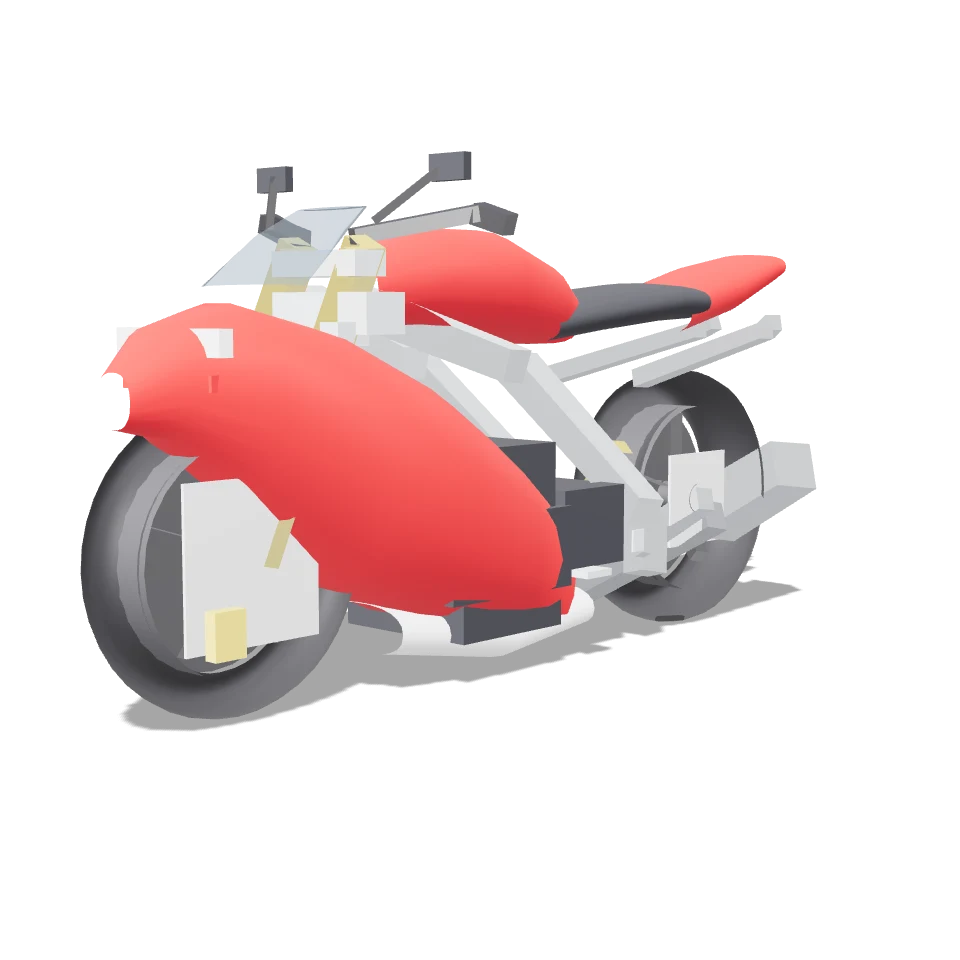
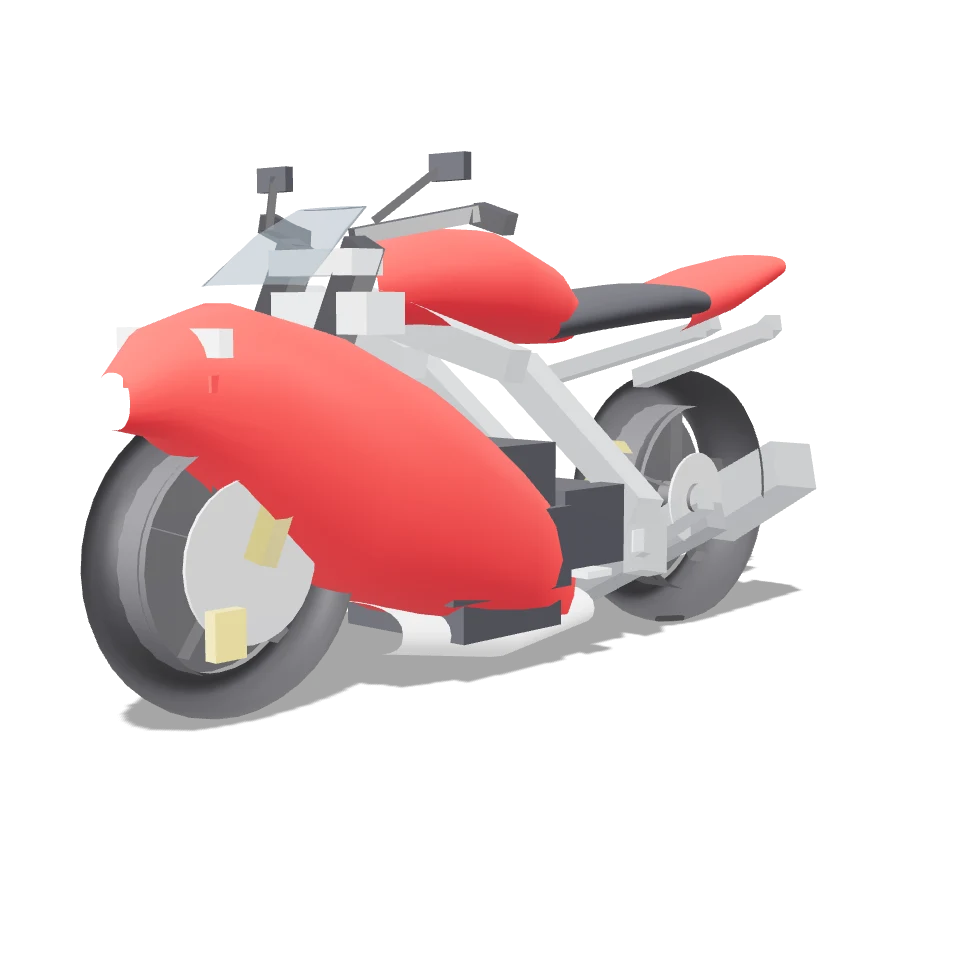
CBR: the fork is a cylinder that stays and a leg that slides with the wheel, caliper and mudguard; the clamp and the handlebar only turn, about the axis of the fork; a round disc

diff --git a/web/js/CarLoader.js b/web/js/CarLoader.js
@@ -219,7 +219,28 @@ OpenRacer.loadCarModel = function (config, onLoad, onError, loadedRoot) {
             defaultWheels(config.wheels && config.wheels.default_model, finish);
         }
 
+        // The front end of a motorcycle that stays and turns: the parts called steerhead_... (the cylinders of the fork, the triple clamp, the handlebar). They hang on the
+        // body (they do not go with the wheel), and turn with the steering about the axis of the fork, which goes through the middle of the front wheel (config.motorcycle.rake_deg).
+        function makeHead() {
+            if(config.type !== "motorcycle" || !measured || !measured.centres.FL) return null;
+            var parts = [];
+            root.traverse(function(child) { if(String(child.name || "").toLowerCase().replace(/[^a-z0-9]/g, "").indexOf("steerhead") === 0) parts.push(child); });
+            parts = parts.filter(function(part) { return !parts.some(function(other) { return other !== part && isInside(part, other); }); });
+            if(!parts.length) return null;
+            var object = new THREE.Object3D();
+            object.name = "steerhead";
+            object.position.copy(measured.centres.FL);
+            space.add(object);
+            object.updateMatrixWorld(true);
+            parts.forEach(function(part) { object.attach(part); });
+            space.remove(object);
+            var rake = ((config.motorcycle && config.motorcycle.rake_deg) || 24.5) * Math.PI / 180;
+            return { object: object, axis: new THREE.Vector3(0, Math.cos(rake), -Math.sin(rake)), rake: rake };
+        }
+
         function finish(wheelObjects) {
+            var head = makeHead();
+            if(head) tilt.add(head.object);
             if(steering) tilt.add(steering.object);
             tilt.add(pivot);
             // the moving parts of the suspension and the steering, when the model has them (SuspensionRig.js)
@@ -240,7 +261,7 @@ OpenRacer.loadCarModel = function (config, onLoad, onError, loadedRoot) {
             });
             // the changes to the materials that were made in the car editor
             OpenRacer.applyMaterialOverrides(THREE, [tilt].concat(wheelObjects), config.materials);
-            onLoad({ tilt: tilt, wheels: wheelObjects, bodyLift: 1, steeringWheel: steering, measured: measured, rig: rig });
+            onLoad({ tilt: tilt, wheels: wheelObjects, bodyLift: 1, steeringWheel: steering, measured: measured, rig: rig, head: head });
         }
     }
 
@@ -361,4 +382,18 @@ OpenRacer.loadCarModel = function (config, onLoad, onError, loadedRoot) {
         try { build(loadedRoot.clone(true)); } catch(e) { console.error(e); onError("Could not use the model (" + e + ")"); }
     } else if(model.type === "gltf") gltf();
     else legacy();
+};
+
+// The front end of a motorcycle each frame: the head (the cylinders, the clamp, the handlebar) turns with the steering about the axis of the fork, the front wheel (with the
+// leg, the brake caliper and the mudguard that hang on it) turns about it too and goes along it with the springs (the physics lets the wheel go straight up and down; the
+// fork goes along its rake, so the wheel moves back a little as it goes up). front: the front wheel (Wheel.js), body: the object of the body, steer: the angle of the front wheel.
+OpenRacer.updateFork = function(head, front, body, steer) {
+    if(!head || !front || !front.object) return;
+    head.object.quaternion.setFromAxisAngle(head.axis, -steer);
+    front.object.children[0].quaternion.setFromAxisAngle(head.axis, -steer - (front.toeBend || 0));
+    var compression = (front.restLengthWheel || 0) - (front.susLength || 0);
+    var back = -compression * Math.tan(head.rake);
+    OpenRacer.updateFork.forward = OpenRacer.updateFork.forward || new THREE.Vector3();
+    OpenRacer.updateFork.forward.set(0, 0, 1).applyQuaternion(body.quaternion).multiplyScalar(back);
+    front.object.position.add(OpenRacer.updateFork.forward);
 };

diff --git a/web/js/Car.js b/web/js/Car.js
@@ -172,6 +172,7 @@ OpenRacer.Car = function( config, domElement ) {
         tobj.bodyLift = model.bodyLift;
         tobj.steeringWheel = model.steeringWheel || null;
         tobj.rig = model.rig || null; // the moving parts of the suspension and the steering of the model, when it has them
+        tobj.head = model.head || null;   // the front end of a motorcycle that stays and turns (CarLoader.js)
         tobj.followModelWheels(model.measured);
         tobj.body.add(model.tilt);
         scene.add(tobj.body);
@@ -311,6 +312,7 @@ OpenRacer.Car = function( config, domElement ) {
                 wheel.object.quaternion.copy(this.body.quaternion);
                 wheel.turn(i < 2 ? this.vehicle.steerApplied : 0);
                 wheel.object.children[0].children[0].rotation.x = wheel.spin;
+                if(this.head && i === 1) OpenRacer.updateFork(this.head, wheel, this.body, this.vehicle.steerApplied);
             }
         }
         if(this.rig) this.rig.update(this.vehicle);

diff --git a/web/js/Opponent.js b/web/js/Opponent.js
@@ -92,6 +92,7 @@ OpenRacer.Opponent = function (config, line, options) {
         scene.add(self.body);
         self.steeringWheel = model.steeringWheel || null;
         self.rig = model.rig || null;
+        self.head = model.head || null;
         for (var i = 0; i < 4; i++) {
             self.wheels[i].object = model.wheels[i];
             scene.add(model.wheels[i]);
@@ -304,6 +305,7 @@ OpenRacer.Opponent = function (config, line, options) {
             wheel.object.quaternion.copy(this.body.quaternion);
             wheel.turn(i < 2 ? v.steerApplied : 0);
             wheel.object.children[0].children[0].rotation.x = wheel.spin;
+            if (this.head && i === 1) OpenRacer.updateFork(this.head, wheel, this.body, v.steerApplied);
         }
         if (this.rig) this.rig.update(v);
         if(this.softBodyMesh) this.softBodyMesh.update();

diff --git a/tools/make-cbr600.py b/tools/make-cbr600.py
@@ -140,11 +140,13 @@ def mirrored(function, *args):
 for name, z, outer, width in (("FL", FRONT, 0.300, 0.125), ("RL", REAR, 0.310, 0.18)):
     part("wheel_" + name, (0, 0, z), tyre(outer, width, 0.216), "tyre")
     part("wheel_" + name + "_rim", (0, 0, z), merge(g.cylinder_x(0.222, width * 0.82), spokes(0.222, width * 0.9)), "rim")
-    discs = merge(*[g.cylinder_x(0.155 if name == "FL" else 0.11, 0.008) for _ in (0,)])
+    def disc(radius, x):
+        p, n, i = g.cylinder_x(radius, 0.008)
+        return [v + (x if k % 3 == 0 else 0) for k, v in enumerate(p)], n, i
     if name == "FL":
-        part("wheel_" + name + "_disc", (0, 0, z), merge(*[box((0.008, 0.31, 0.31), (s * 0.075, 0, 0)) for s in (1, -1)]), "disc")
+        part("wheel_" + name + "_disc", (0, 0, z), merge(disc(0.155, 0.075), disc(0.155, -0.075)), "disc")
     else:
-        part("wheel_" + name + "_disc", (0, 0, z), box((0.008, 0.22, 0.22), (0.075, 0, 0)), "disc")
+        part("wheel_" + name + "_disc", (0, 0, z), disc(0.11, 0.075), "disc")
 # the other two wheels of the physics: a millimetre, in the middle of the wheel
 part("wheel_FR", (0, 0, FRONT), box((0.002, 0.002, 0.002)), "black")
 part("wheel_RR", (0, 0, REAR), box((0.002, 0.002, 0.002)), "black")
@@ -156,19 +158,37 @@ top = (axle[0], axle[1] + 0.62 * math.cos(rake), axle[2] - 0.62 * math.sin(rake)
 mid = (axle[0], axle[1] + 0.32 * math.cos(rake), axle[2] - 0.32 * math.sin(rake))
 
 
-def fork_tubes():
+# The fork is two parts. The cylinder (the upper tube, black) hangs on the steering head and stays where it is, it only turns with the steering; the leg (the lower
+# leg, gold) goes with the wheel: it slides into the cylinder and out of it, in line with it, with the wheel, the disc, the brake caliper and the mudguard.
+# The clamp (the triple clamp) and the handlebar stay where they are and only turn. The parts that stay and turn are called steerhead_..., the ones that go
+# with the wheel and turn are called brake_..._FL (the loader hangs the parts of a brake caliper on the steering of the front wheel).
+def along(l):
+    return (axle[0], axle[1] + l * math.cos(rake), axle[2] - l * math.sin(rake))
+
+
+def cylinder_tubes():
     out = []
     for s in (1, -1):
-        out.append(tube((s * 0.095, axle[1], axle[2]), (s * 0.095, top[1], top[2]), 0.05))     # the lower leg (gold) and the upper tube
-        out.append(tube((s * 0.095, mid[1], mid[2]), (s * 0.095, top[1] + 0.02, top[2] - 0.01), 0.058))
+        a, b = along(0.30), along(0.64)
+        out.append(tube((s * 0.095, a[1], a[2]), (s * 0.095, b[1], b[2]), 0.058))
     return merge(*out)
 
 
-part("brake_fork_FL", (0, 0, 0), fork_tubes(), "gold")
-part("brake_clamp_FL", (0, 0, 0), merge(box((0.24, 0.05, 0.08), (0, top[1] - 0.02, top[2] + 0.0)), box((0.24, 0.045, 0.08), (0, mid[1] + 0.12, mid[2] - 0.08))), "alu")
+def leg_tubes():
+    out = []
+    for s in (1, -1):
+        a, b = along(0.0), along(0.36)
+        out.append(tube((s * 0.095, a[1], a[2]), (s * 0.095, b[1], b[2]), 0.044))
+    return merge(*out)
+
+
+part("steerhead_cylinder", (0, 0, 0), cylinder_tubes(), "black")
+part("brake_fork_leg_FL", (0, 0, 0), leg_tubes(), "gold")
+clamp_top, clamp_low = along(0.60), along(0.40)
+part("steerhead_clamp", (0, 0, 0), merge(box((0.24, 0.05, 0.08), (0, clamp_top[1], clamp_top[2])), box((0.24, 0.045, 0.08), (0, clamp_low[1], clamp_low[2]))), "alu")
 handle = merge(*[tube((s * 0.07, top[1] + 0.03, top[2] - 0.0), (s * 0.30, top[1] + 0.07, top[2] - 0.10), 0.03) for s in (1, -1)],
                *[tube((s * 0.30, top[1] + 0.07, top[2] - 0.10), (s * 0.32, top[1] + 0.05, top[2] - 0.17), 0.04) for s in (1, -1)])
-part("brake_handlebar_FL", (0, 0, 0), handle, "black")
+part("steerhead_handlebar", (0, 0, 0), handle, "black")
 part("brake_mudguard_FL", (0, 0, 0), merge(*[box((0.02, 0.03, 0.30), (s * 0.12, 0.33, FRONT - 0.02)) for s in (1, -1)], box((0.17, 0.018, 0.30), (0, 0.352, FRONT - 0.02))), "paint")
 part("brake_caliper_FL", (0, 0, 0), merge(*[box((0.03, 0.09, 0.07), (s * 0.095, -0.12, FRONT + 0.08)) for s in (1, -1)]), "gold")
 
@@ -240,7 +260,7 @@ if not os.path.exists(CAR):
             "downforce_front": 0, "downforce_rear": 0, "ackermann": 0, "ride_front": 0, "ride_rear": 0,
             "roll_center_front": 0.3, "roll_center_rear": 0.3, "toe_front": 0, "toe_rear": 0, "camber_front": 0, "camber_rear": 0, "roll_camber": 0
         },
-        "motorcycle": {"max_lean_deg": 52, "balance": 1.0, "rider_mass": 75, "max_lateral_g": 0.9},
+        "motorcycle": {"rake_deg": 24.5, "max_lean_deg": 52, "balance": 1.0, "rider_mass": 75, "max_lateral_g": 0.9},
         "drivetrain": {
             "drive": "rwd", "diff": "welded", "diff_preload": 0, "diff_power": 0, "diff_coast": 0, "center_diff": "lsd", "center_split": 0.4,
             "gear_ratios": [2.75, 2.0, 1.667, 1.444, 1.304, 1.208], "reverse_ratio": 3.0, "final_drive": 6.03, "efficiency": 0.93, "shift_time": 0.12,

diff --git a/MOTORCYCLE.md b/MOTORCYCLE.md
@@ -7,13 +7,15 @@ The game's physics has four wheels, and a motorcycle is that physics with change
 
 * **Two wheels as four.** Every axle has two wheels of the physics at the same place (`front_track` and `rear_track` of 4 cm). The model has the two wheels it needs and two of a millimetre (`wheel_FR`, `wheel_RR`) for the other two. The front wheel carries its own `FL` slot, the rear wheel `RL`.
 * **A rider that keeps it up.** A bike does not stand by itself. In `Vehicle.js` a torque about the long axis of the bike pulls the lean to the one that the corner needs (`lean = atan(a / g)`, with `a` from the steering and the speed, and a little of the yaw rate) and damps the fall. At a walking pace the lean is held at zero. Past about 66 degrees of lean the rider lets go and the bike goes down. `motorcycle.max_lean_deg` (50), `motorcycle.balance` (1: the strength of the pull) and `motorcycle.steer_speed` (14 m/s: the speed at which the steering is a half) are in `car.json`.
-* **Steering.** The steering is a wish for a bend, not an angle: the angle that the keys or the wheel give is cut to what makes at most `motorcycle.max_lateral_g` (0.9) of sideways acceleration at this speed (`a = u^2 delta / L`; the more the steering is turned, up to half of the lock, the more of it is allowed), and the front wheel follows it with a delay of 0.07 s. So the same key is a gentle lean at 150 km/h and a full lock at a walking pace. The fork, the clamp, the handlebar and the mudguard turn with the wheel. The steering assist of the keyboard (the front wheel that follows a slide) is off for a bike.
+* **Steering.** The steering is a wish for a bend, not an angle: the angle that the keys or the wheel give is cut to what makes at most `motorcycle.max_lateral_g` (0.9) of sideways acceleration at this speed (`a = u^2 delta / L`; the more the steering is turned, up to half of the lock, the more of it is allowed), and the front wheel follows it with a delay of 0.07 s. So the same key is a gentle lean at 150 km/h and a full lock at a walking pace. The front end turns about the axis of the fork (`motorcycle.rake_deg`, 24.5), not about the vertical. The steering assist of the keyboard (the front wheel that follows a slide) is off for a bike.
 * **Staying straight.** The rider also damps the yaw that the steering did not ask for (a torque about the vertical), which a bike with a light rear wheel in hard braking needs.
 * **Braking.** The front brake is let off as the rear wheel loses its load (a stoppie goes over the front), and the rear brake goes with the load of the rear wheel (a light rear wheel that locks has no side grip). The engine braking of the CBR is 0.3 (a slipper clutch): at 1 the rear wheel slid at 30 % slip when the throttle was shut and the bike swung round.
 * **The bodywork can lean.** While the lean is less than 66 degrees the body spheres do not touch the road (a bike in a corner has its fairing near it); past that they do, and the bike slides on its side.
 * **Different suspension at the front and the rear:** `spring_front`/`spring_rear`, `damping_front`/`damping_rear` as for a car (a fork of 17 kN/m and a shock of 24 kN/m).
 
 ## The model
+**The front end.** Two sets of parts, by name. What stays on the bike and only turns with the steering is `steerhead_...` (`steerhead_cylinder`: the upper tubes of the fork, `steerhead_clamp`: the triple clamp, `steerhead_handlebar`); the loader hangs them on the steering head. What goes with the front wheel is the parts of the wheel (the tyre and the disc spin) and the parts called `brake_..._FL` (`brake_fork_leg_FL`: the lower leg, `brake_caliper_FL`, `brake_mudguard_FL`): they turn with the steering and slide along the fork with the springs, in line with the cylinders (the physics lets the wheel go straight up and down; the visual moves it back a little as it goes up, `OpenRacer.updateFork`).
+
 `tools/make-cbr600.py` makes `cbr600.glb`. Wheels: `wheel_FL` (the tyre), `wheel_FL_rim`, `wheel_FL_disc`, and the same for `RL`, listed in `wheels.nodes` of the car. What steers with the front wheel without spinning is a part whose name ends in `FL` and starts with or contains `brake` (`brake_fork_FL`, `brake_handlebar_FL`, ...): the loader hangs the parts of a brake caliper on the steering of its wheel.
 
 ## The engine sound
